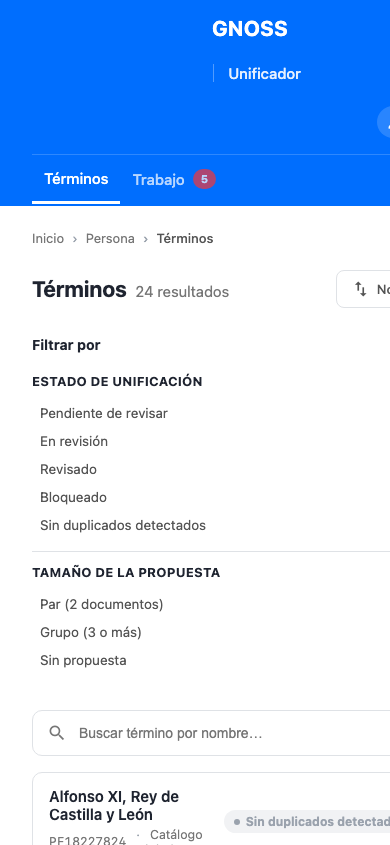
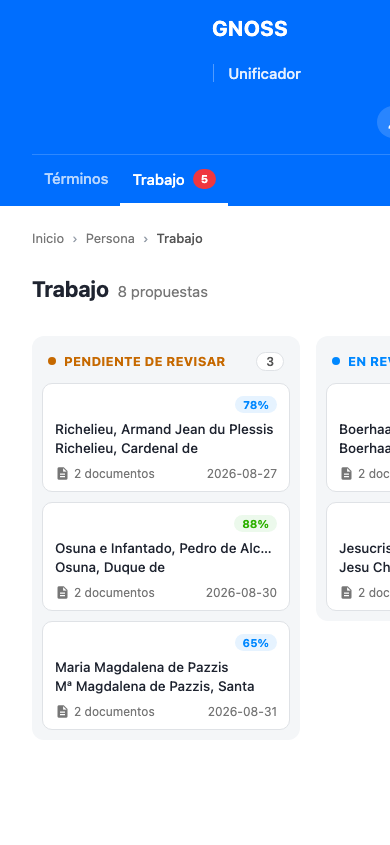
Xunta-Galicia: usa las 2 páginas reales del demo, no 3 anchos de la misma
Comprobado directamente: el demo es un sitio estático de solo 2 páginas
(terminos.html, trabajo.html) — no hay fichas de detalle ni más rutas
ocultas. Antes las 3 capturas (desktop/tablet/móvil) eran todas de
terminos.html a distinto ancho; ahora desktop sigue siendo el listado de
términos, y tablet/móvil pasan a ser el tablero de trabajo
(trabajo.html), un segundo patrón de UI real distinto del primero.

Claude-Session: https://claude.ai/code/session_01YbgDm9h59tEY8htdocr91Y

diff --git a/data/projects.ts b/data/projects.ts
@@ -477,6 +477,11 @@ export const projects: Project[] = [
     // no raw material for this one like Madrid/Mirazur had, but the demo
     // itself is real and deployed, so these are headless screenshots of it
     // at each breakpoint rather than anything synthesized, 2026-10-15.
+    // Only 2 distinct real screens exist in the demo (terminos.html,
+    // trabajo.html — confirmed by checking its linked pages directly, it's
+    // a static 2-page site, not a bigger app with hidden routes), so
+    // desktop uses one and tablet/mobile the other, rather than 3 crops of
+    // the same single page.
     deviceShowcase: {
       desktop: {
         src: "/projects/xunta-galicia/device-desktop.png",
@@ -489,17 +494,17 @@ export const projects: Project[] = [
       tablet: {
         src: "/projects/xunta-galicia/device-tablet.png",
         alt: {
-          es: "El mismo listado de términos en tablet, con la barra de filtros todavía a la izquierda.",
-          en: "The same term list on tablet, with the filter sidebar still on the left.",
-          ca: "El mateix llistat de termes a tablet, amb la barra de filtres encara a l'esquerra.",
+          es: "El tablero de trabajo del Unificador en tablet, con las propuestas agrupadas por estado: pendiente, en revisión, revisado, bloqueado.",
+          en: "The Unificador's work board on tablet, with proposals grouped by status: pending, in review, reviewed, blocked.",
+          ca: "El tauler de treball de l'Unificador a tablet, amb les propostes agrupades per estat: pendent, en revisió, revisat, bloquejat.",
         },
       },
       mobile: {
         src: "/projects/xunta-galicia/device-mobile.png",
         alt: {
-          es: "El listado de términos en móvil — la herramienta está pensada para escritorio, así que el ajuste responsive es mínimo.",
-          en: "The term list on mobile — the tool is built for desktop use, so the responsive adaptation is minimal.",
-          ca: "El llistat de termes a mòbil — l'eina està pensada per a escriptori, així que l'ajust responsive és mínim.",
+          es: "El mismo tablero de trabajo en móvil — la herramienta está pensada para escritorio, así que el ajuste responsive es mínimo.",
+          en: "The same work board on mobile — the tool is built for desktop use, so the responsive adaptation is minimal.",
+          ca: "El mateix tauler de treball a mòbil — l'eina està pensada per a escriptori, així que l'ajust responsive és mínim.",
         },
       },
       caption: {
